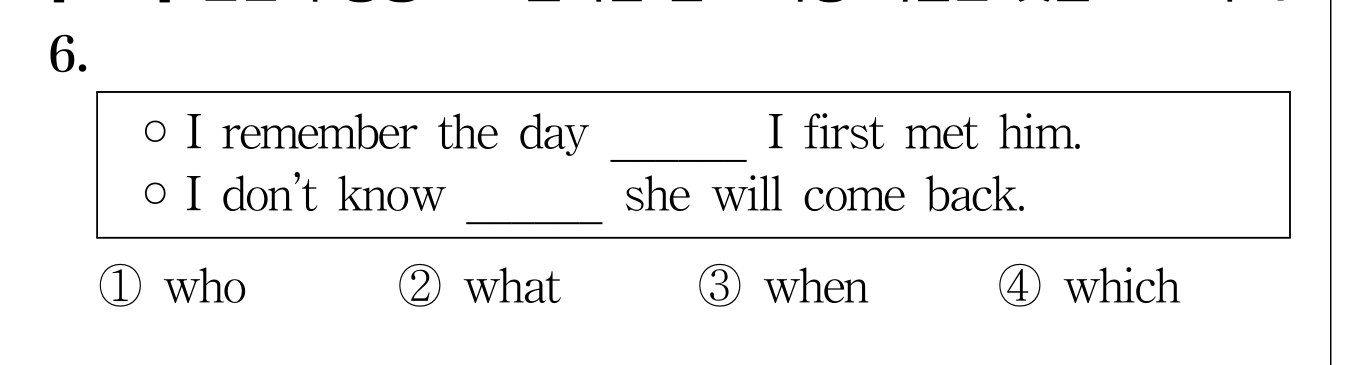
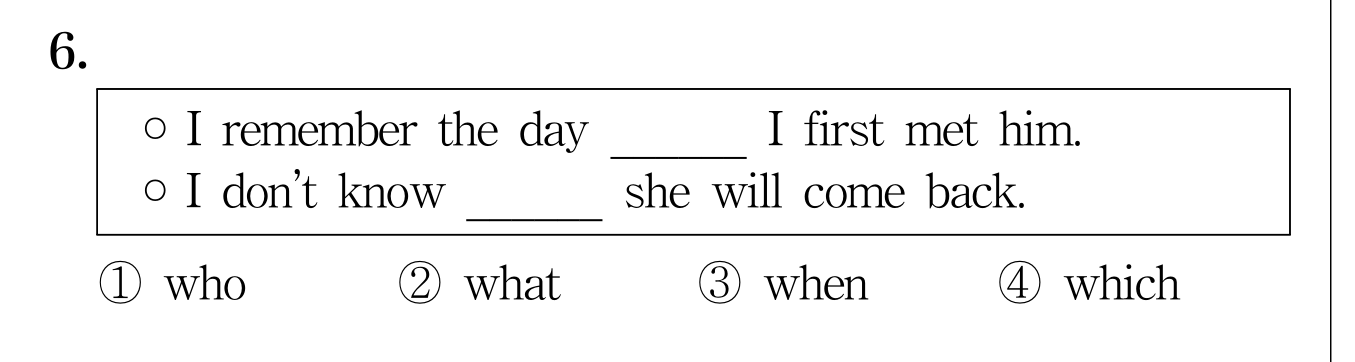
영어 오답노트 문제 수정

diff --git a/quiz-app/src/pages/WrongNotePage.tsx b/quiz-app/src/pages/WrongNotePage.tsx
@@ -211,15 +211,25 @@ export default function WrongNotePage() {
                   </div>
                   {isOpen && (
                     <div className="px-3 pb-3 space-y-3">
-                      {q.passageImage && (
-                        <div className="bg-blue-50 rounded-2xl shadow-sm p-3 border border-blue-100">
-                          <p className="text-xs text-blue-500 font-semibold mb-2 select-none">📄 지문</p>
-                          <QuestionImage
-                            src={q.passageImage}
-                            alt={`${q.year}년 ${q.session}회 지문`}
-                          />
-                        </div>
-                      )}
+                      {q.passageImage && (() => {
+                        const isPassage = /pass_(22_23|24_25)\./.test(q.passageImage!);
+                        return isPassage ? (
+                          <div className="bg-blue-50 rounded-2xl shadow-sm p-3 border border-blue-100">
+                            <p className="text-xs text-blue-500 font-semibold mb-2 select-none">📄 지문</p>
+                            <QuestionImage
+                              src={q.passageImage!}
+                              alt={`${q.year}년 ${q.session}회 지문`}
+                            />
+                          </div>
+                        ) : (
+                          <div className="bg-gray-50 rounded-2xl shadow-sm p-3 border border-gray-100">
+                            <QuestionImage
+                              src={q.passageImage!}
+                              alt={`${q.year}년 ${q.session}회 지시문`}
+                            />
+                          </div>
+                        );
+                      })()}
                       <QuestionImage src={q.image} alt={`${q.id} 문제`} />
                       {q.explanation && (
                         <div className="bg-blue-50 border border-blue-100 rounded-xl p-3">

diff --git a/quiz-app/src/pages/QuizPage.tsx b/quiz-app/src/pages/QuizPage.tsx
@@ -170,16 +170,26 @@ export default function QuizPage() {
 
       {/* 문제 영역 (슬라이드 in) */}
       <div key={slideKey} className="flex-1 overflow-y-auto px-4 py-4 space-y-3 slide-in">
-        {/* 지문 카드 (공유 지문이 있는 경우) */}
-        {question.passageImage && (
-          <div className="bg-blue-50 rounded-2xl shadow-sm p-3 border border-blue-100">
-            <p className="text-xs text-blue-500 font-semibold mb-2 select-none">📄 지문</p>
-            <QuestionImage
-              src={question.passageImage}
-              alt={`${question.year}년 ${question.session}회 지문`}
-            />
-          </div>
-        )}
+        {/* 지문/지시문 카드 */}
+        {question.passageImage && (() => {
+          const isPassage = /pass_(22_23|24_25)\./.test(question.passageImage!);
+          return isPassage ? (
+            <div className="bg-blue-50 rounded-2xl shadow-sm p-3 border border-blue-100">
+              <p className="text-xs text-blue-500 font-semibold mb-2 select-none">📄 지문</p>
+              <QuestionImage
+                src={question.passageImage!}
+                alt={`${question.year}년 ${question.session}회 지문`}
+              />
+            </div>
+          ) : (
+            <div className="bg-gray-50 rounded-2xl shadow-sm p-3 border border-gray-100">
+              <QuestionImage
+                src={question.passageImage!}
+                alt={`${question.year}년 ${question.session}회 지시문`}
+              />
+            </div>
+          );
+        })()}
         {/* 문제 이미지 카드 */}
         <div className="bg-white rounded-2xl shadow-sm p-3">
           <QuestionImage
